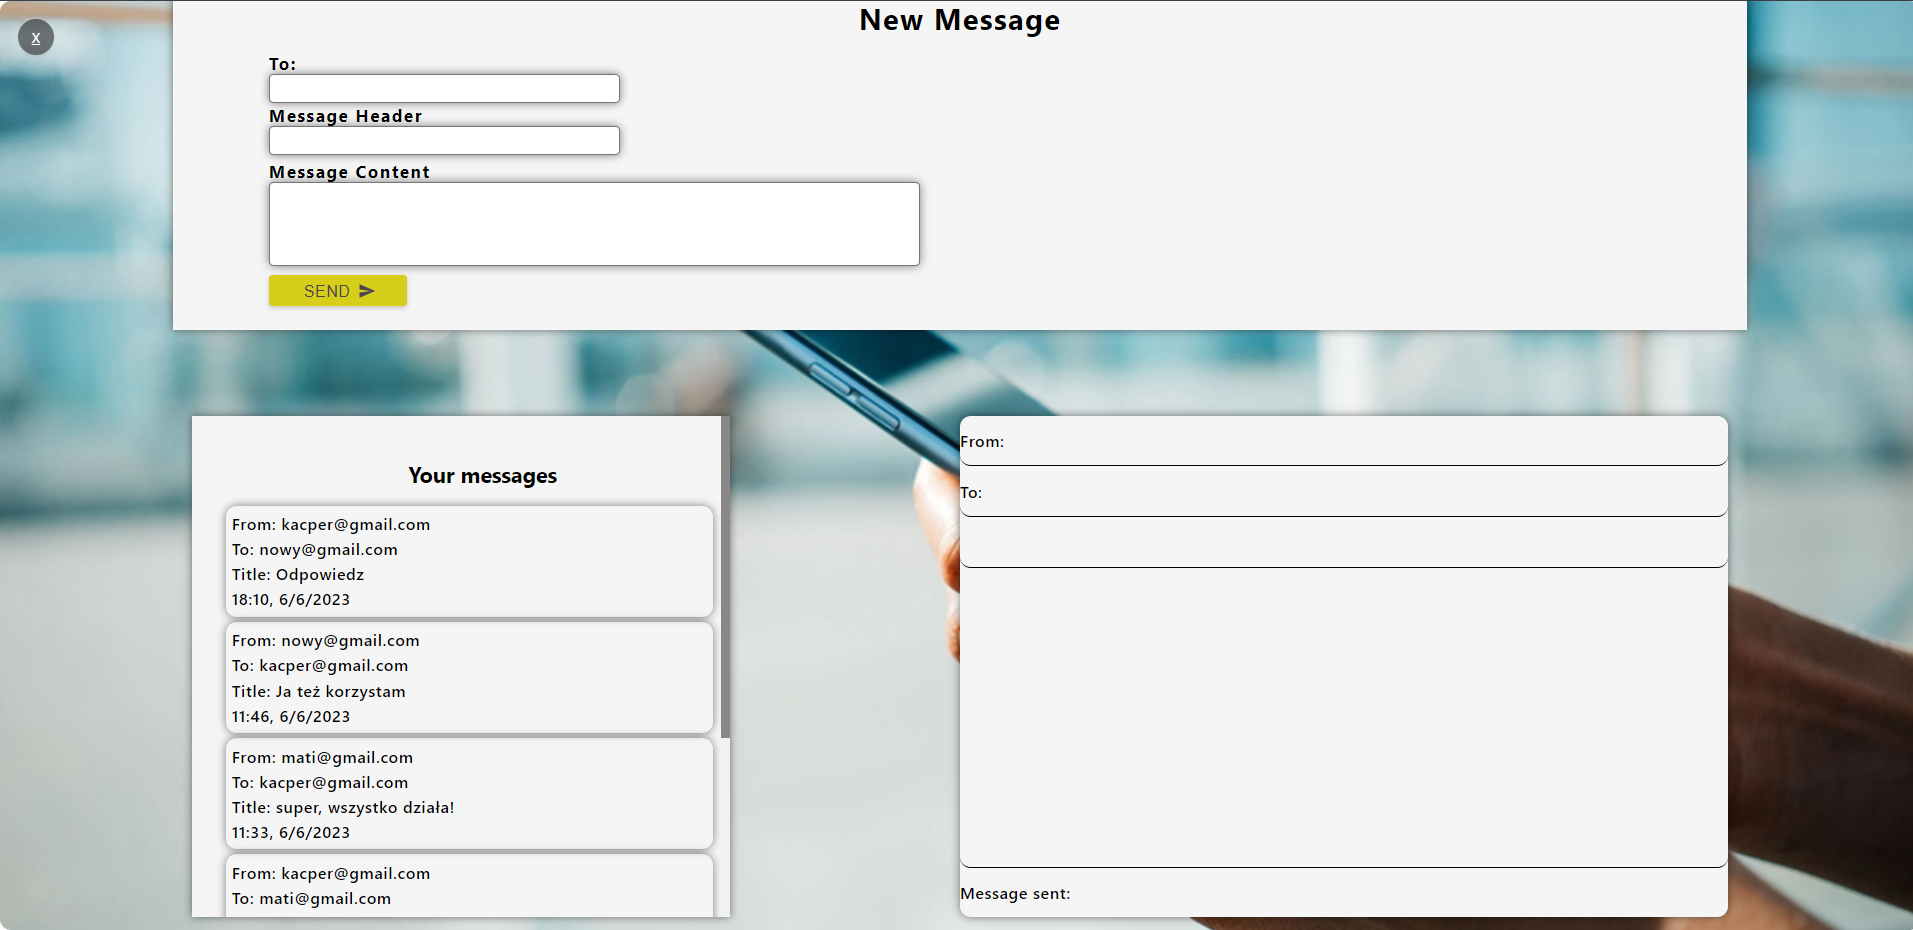
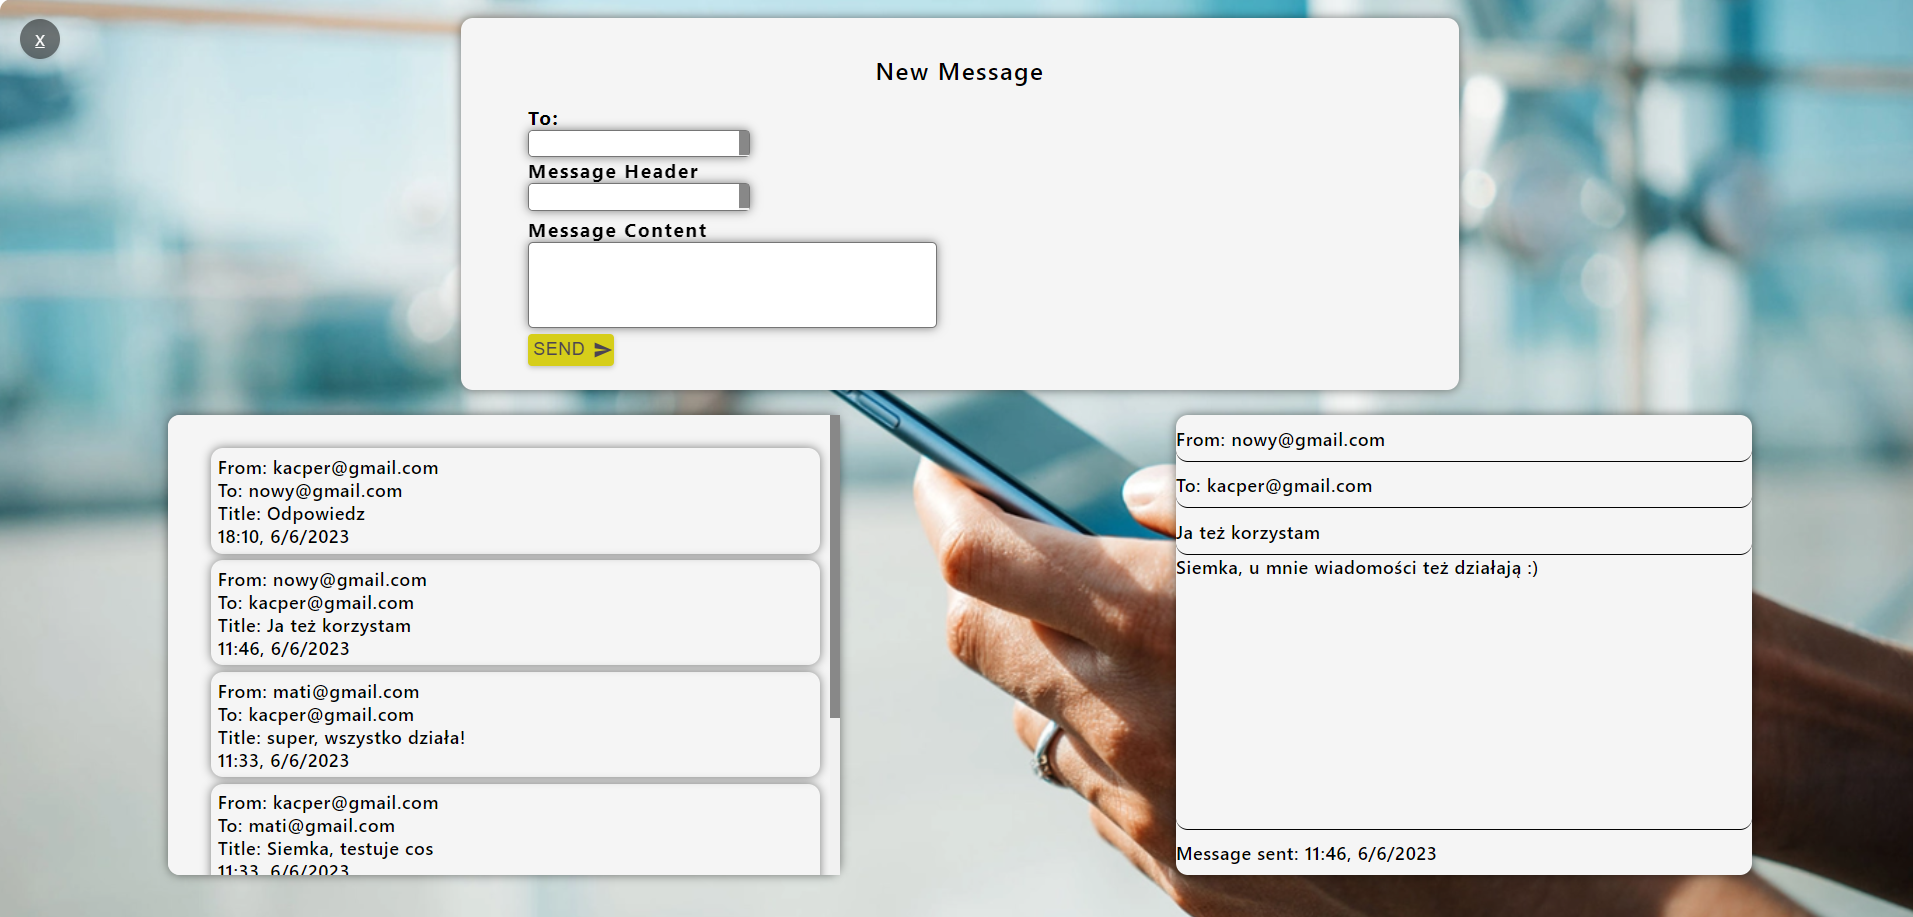
screenshots added

diff --git a/client/src/styles/Messages.module.css b/client/src/styles/Messages.module.css
@@ -2,37 +2,35 @@
   width: 100vw;
   height: 100vh;
   display: flex;
-  justify-content: center;
-  align-items: center;
   flex-direction: column;
   border-radius: 12px;
   background-image: url("../../images/messages-bg.png");
   background-size: cover;
   background-position: center center;
-  overflow-y: hidden;
-  overflow-x: hidden;
+  overflow: hidden;
 }
 
 .form-container {
-  width: 80%;
-  height: 35%;
-  box-shadow: 0 0 10px rgba(0, 0.5, 0, 0.5);
-  margin-top: 2%;
-  background-color: whitesmoke;
-  padding: 1%;
+  border-radius: 12px;
+  width: 100%;
+  height: 40%;
+  display: flex;
+  justify-content: center;
+  align-items: center;
+  margin-top: 1%;
 }
 .messages-container {
-  width: 80%;
-  height: 60%;
-  margin: 3%;
   display: flex;
-  justify-content: space-between;
+  justify-content: space-around;
   align-items: center;
   flex-direction: row;
+  height: 55%;
+
 }
 
 .messages-list-container {
   width: 35%;
+  border-radius:12px;
   height: 90%;
   box-shadow: 0 0 10px rgba(0, 0.5, 0, 0.5);
   background-color: whitesmoke;
@@ -41,7 +39,7 @@
 }
 
 .messages-description-container {
-  width: 50%;
+  width: 30%;
   height: 90%;
   border-radius: 12px;
   box-shadow: 0 0 10px rgba(0, 0.5, 0, 0.5);

diff --git a/client/src/styles/NewMessageForm.module.css b/client/src/styles/NewMessageForm.module.css
@@ -1,6 +1,10 @@
 .container {
-  width: 100%;
-  height: 100%;
+  width: 50%;
+  height: 90%;
+  padding: 1%;
+  background-color: whitesmoke;
+  border-radius: 12px;
+  box-shadow: 0 0 10px rgba(0, 0.5, 0, 0.5);
 }
 .header-container {
   width: 100%;
@@ -11,13 +15,13 @@
 }
 
 .header {
-  font-size: 2rem;
+  font-size: 1.5rem;
   letter-spacing: 0.1rem;
+  font-weight: 600;
 }
 
 .inputs-container {
   height: 80%;
-  
 }
 
 .double-inputs {
@@ -61,5 +65,3 @@
   resize: none;
   box-shadow: 0 0 10px rgba(0, 0.5, 0, 0.5);
 }
-
-

diff --git a/client/src/components/messages-page/messagesList/MessagesList.js b/client/src/components/messages-page/messagesList/MessagesList.js
@@ -5,7 +5,6 @@ const MessagesList = (props) => {
 
   return (
     <div className={styles["container"]}>
-      <h2 className={styles.parag}>Your messages</h2>
       {messages.length === 0 ? (
         <p className={styles.parag}>There's nothing to see</p>
       ) : (
